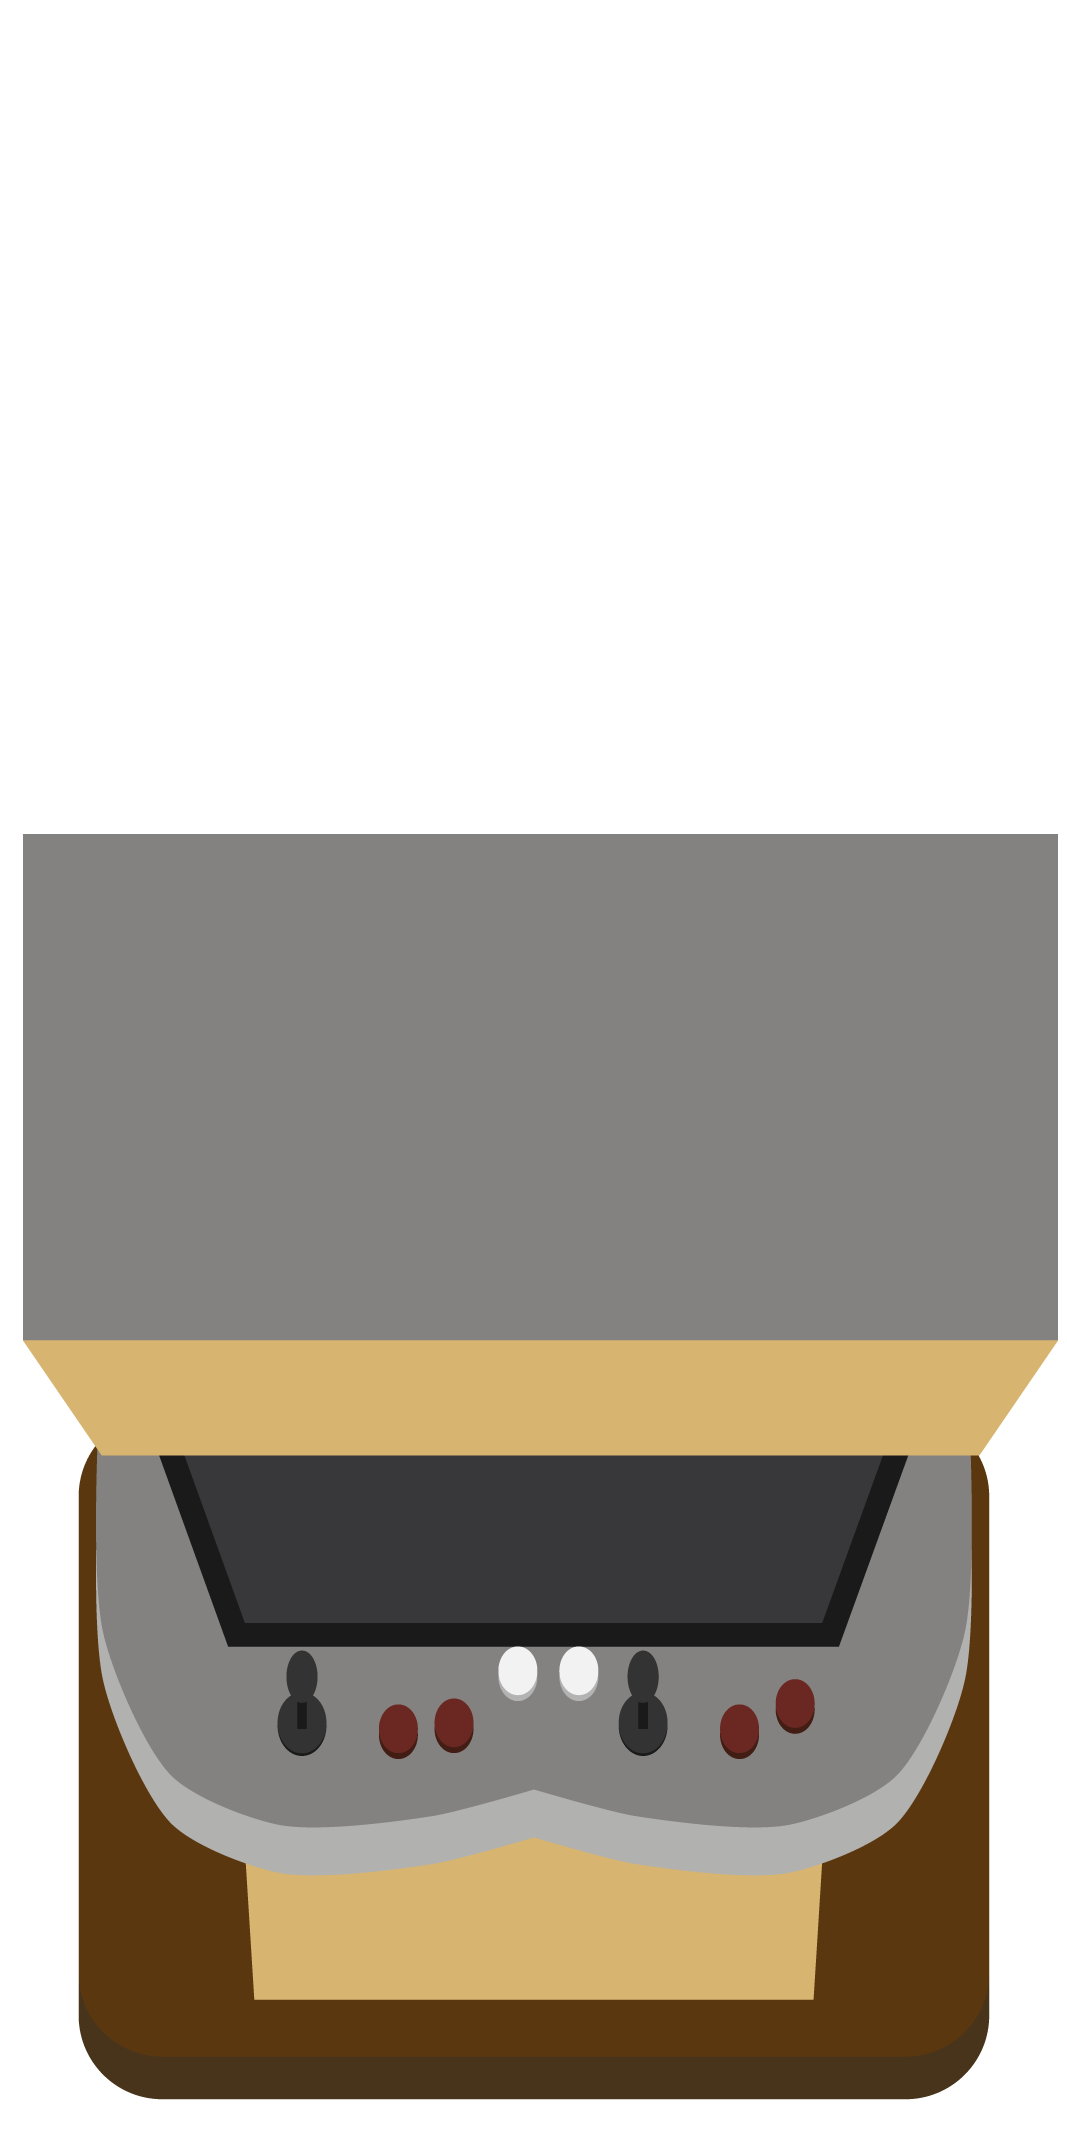
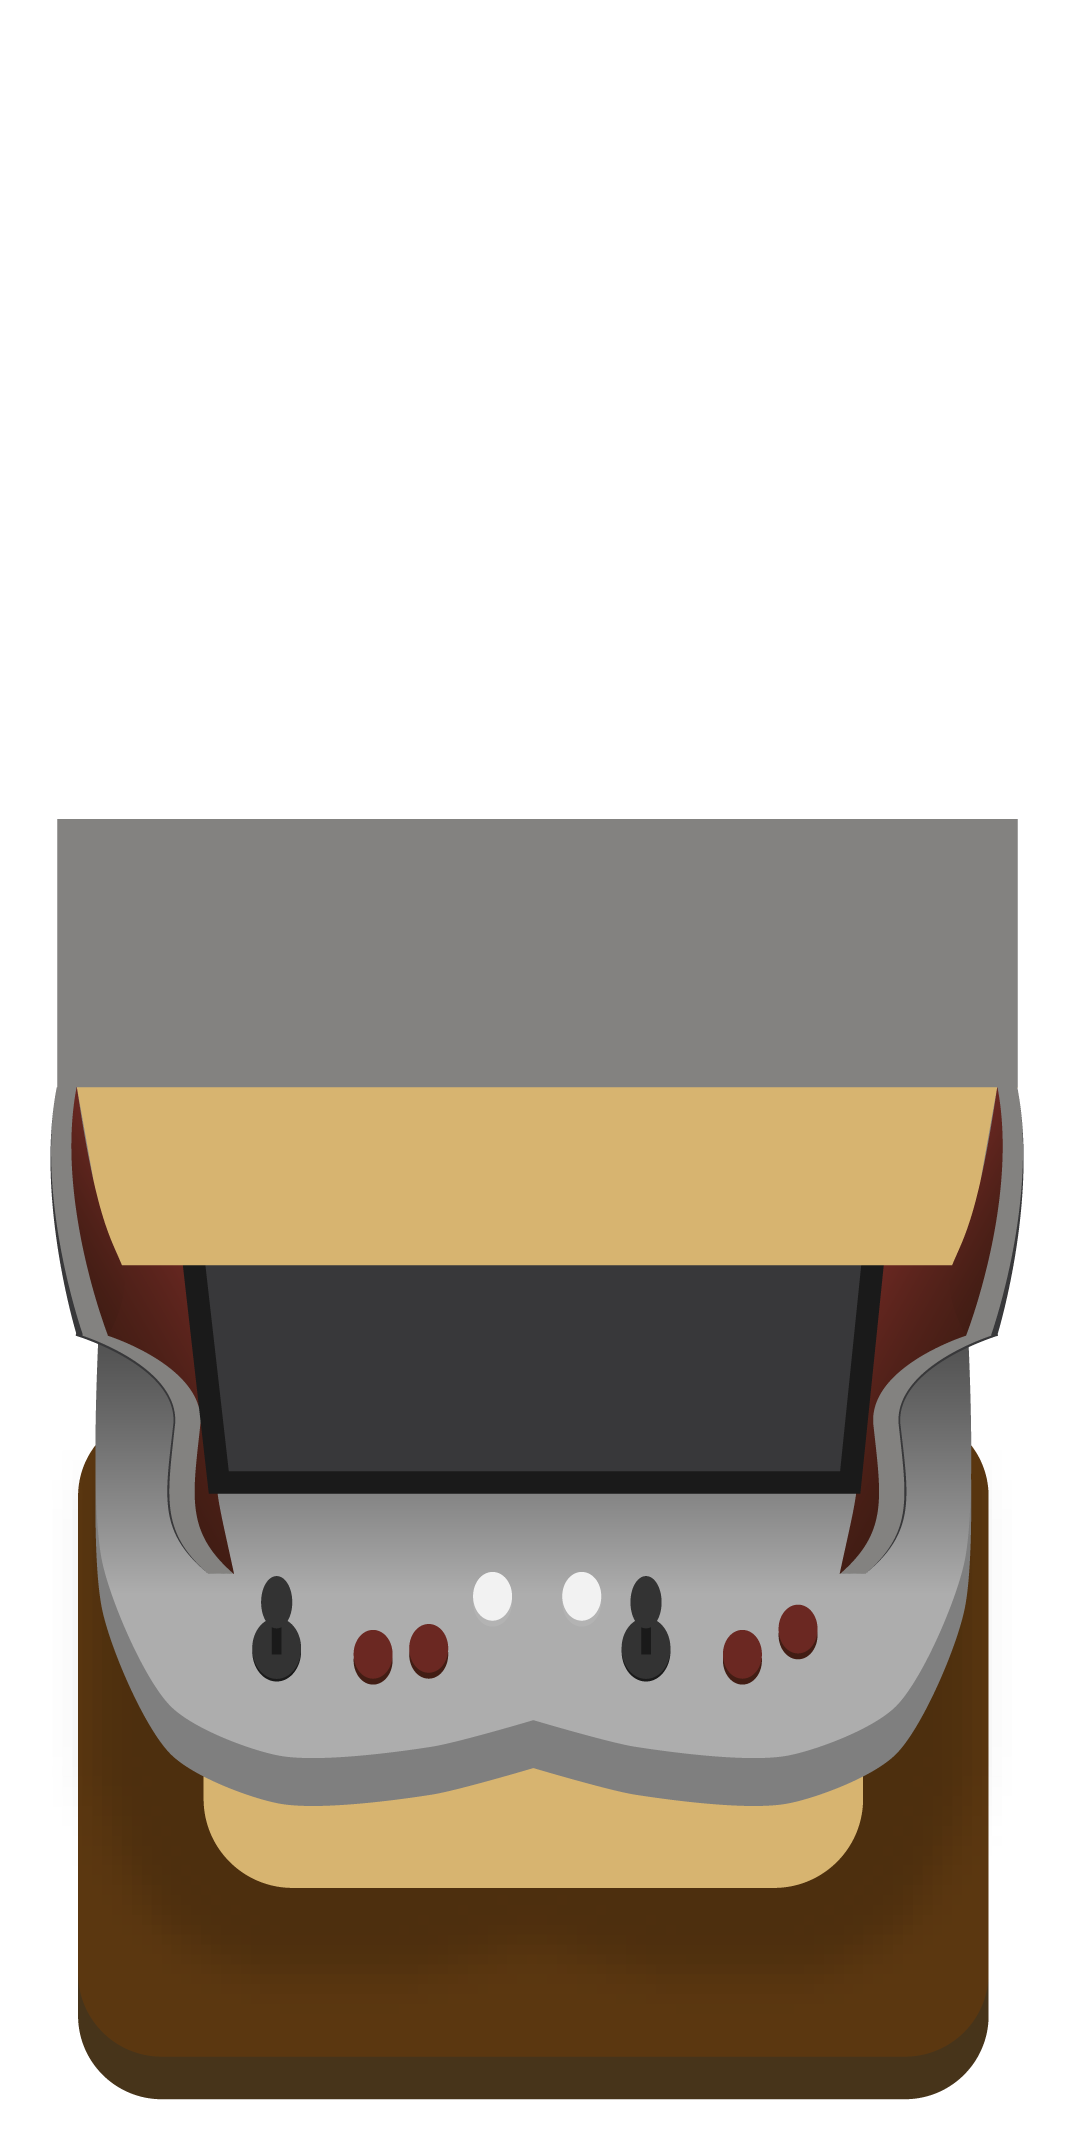
Pilares fixos indestrutíveis e bancos destrutíveis adicionados, ainda não ajeitamos o spawn do banco, ele pode spawnar menos que o num definido

diff --git a/Assets/Scripts/FakeTileMap.cs b/Assets/Scripts/FakeTileMap.cs
@@ -53,7 +53,7 @@ public class FakeTileMap : MonoBehaviour {
 		for (int i = 0; i < numMaxObstaculos; i++) {
 			indexes [i] = i;
 		}
-
+			
 		for (int i = 0; i < numMaxObstaculos; i++) {
 			int tmp = indexes [i];
 			int j = Random.Range (i, numMaxObstaculos);
@@ -61,21 +61,37 @@ public class FakeTileMap : MonoBehaviour {
 			indexes [j] = tmp;
 		}
 
-		for (int i = 0; i < numObstaculos; i++) {
-			int x = indexes[i] % (num_verticalsquares-2)+1;
-			int y = indexes[i] / (num_verticalsquares-2)+1;
+		int[] fixedIdexes = { 10, 28, 46, 65, 69, 70, 61, 43, 34, 11, 14, 16 };
+
+		for (int i = 0; i < fixedIdexes.Length; i++) {
+			int x = fixedIdexes[i] % (num_verticalsquares);
+			int y = fixedIdexes[i] / (num_verticalsquares);
 			Vector2 spawnPos = new Vector2 (x * square_width+xOffset + square_width/2, y * square_height + square_height/2);
 			Vector3 worldPos = Camera.main.ScreenToWorldPoint(new Vector3(spawnPos.x, spawnPos.y, 0f));
 			worldPos.z = -2;
 			GameObject.Instantiate (obstaculo, worldPos, Quaternion.identity);
 		}
+
+		int skip = 0; // flag para pular o spawn do obstáculo
 		for (int i = 0; i < numObstaculosDestrutivel; i++) {
 			int x = indexes[i] % (num_verticalsquares-2)+1;
 			int y = indexes[i] / (num_verticalsquares-2)+1;
-			Vector2 spawnPos = new Vector2 (x * square_width+xOffset + square_width/2, y * square_height + square_height/2);
-			Vector3 worldPos = Camera.main.ScreenToWorldPoint(new Vector3(spawnPos.x, spawnPos.y, 0f));
-			worldPos.z = -2;
-			GameObject.Instantiate (obstaculoDestrutivel, worldPos, Quaternion.identity);
+			for (int j = 0; j < fixedIdexes.Length; j++) {
+				if ((x*9) + y == fixedIdexes [j]) {
+					skip = 1;
+				}
+			}
+
+			if (skip == 0) {
+				Vector2 spawnPos = new Vector2 (x * square_width + xOffset + square_width / 2, y * square_height + square_height / 2);
+				Vector3 worldPos = Camera.main.ScreenToWorldPoint (new Vector3 (spawnPos.x, spawnPos.y, 0f));
+				worldPos.z = -2;
+				GameObject.Instantiate (obstaculoDestrutivel, worldPos, Quaternion.identity);
+			} else {
+				//skip = 0;
+				//i--;
+			}
+
 		}
 			
 	}
